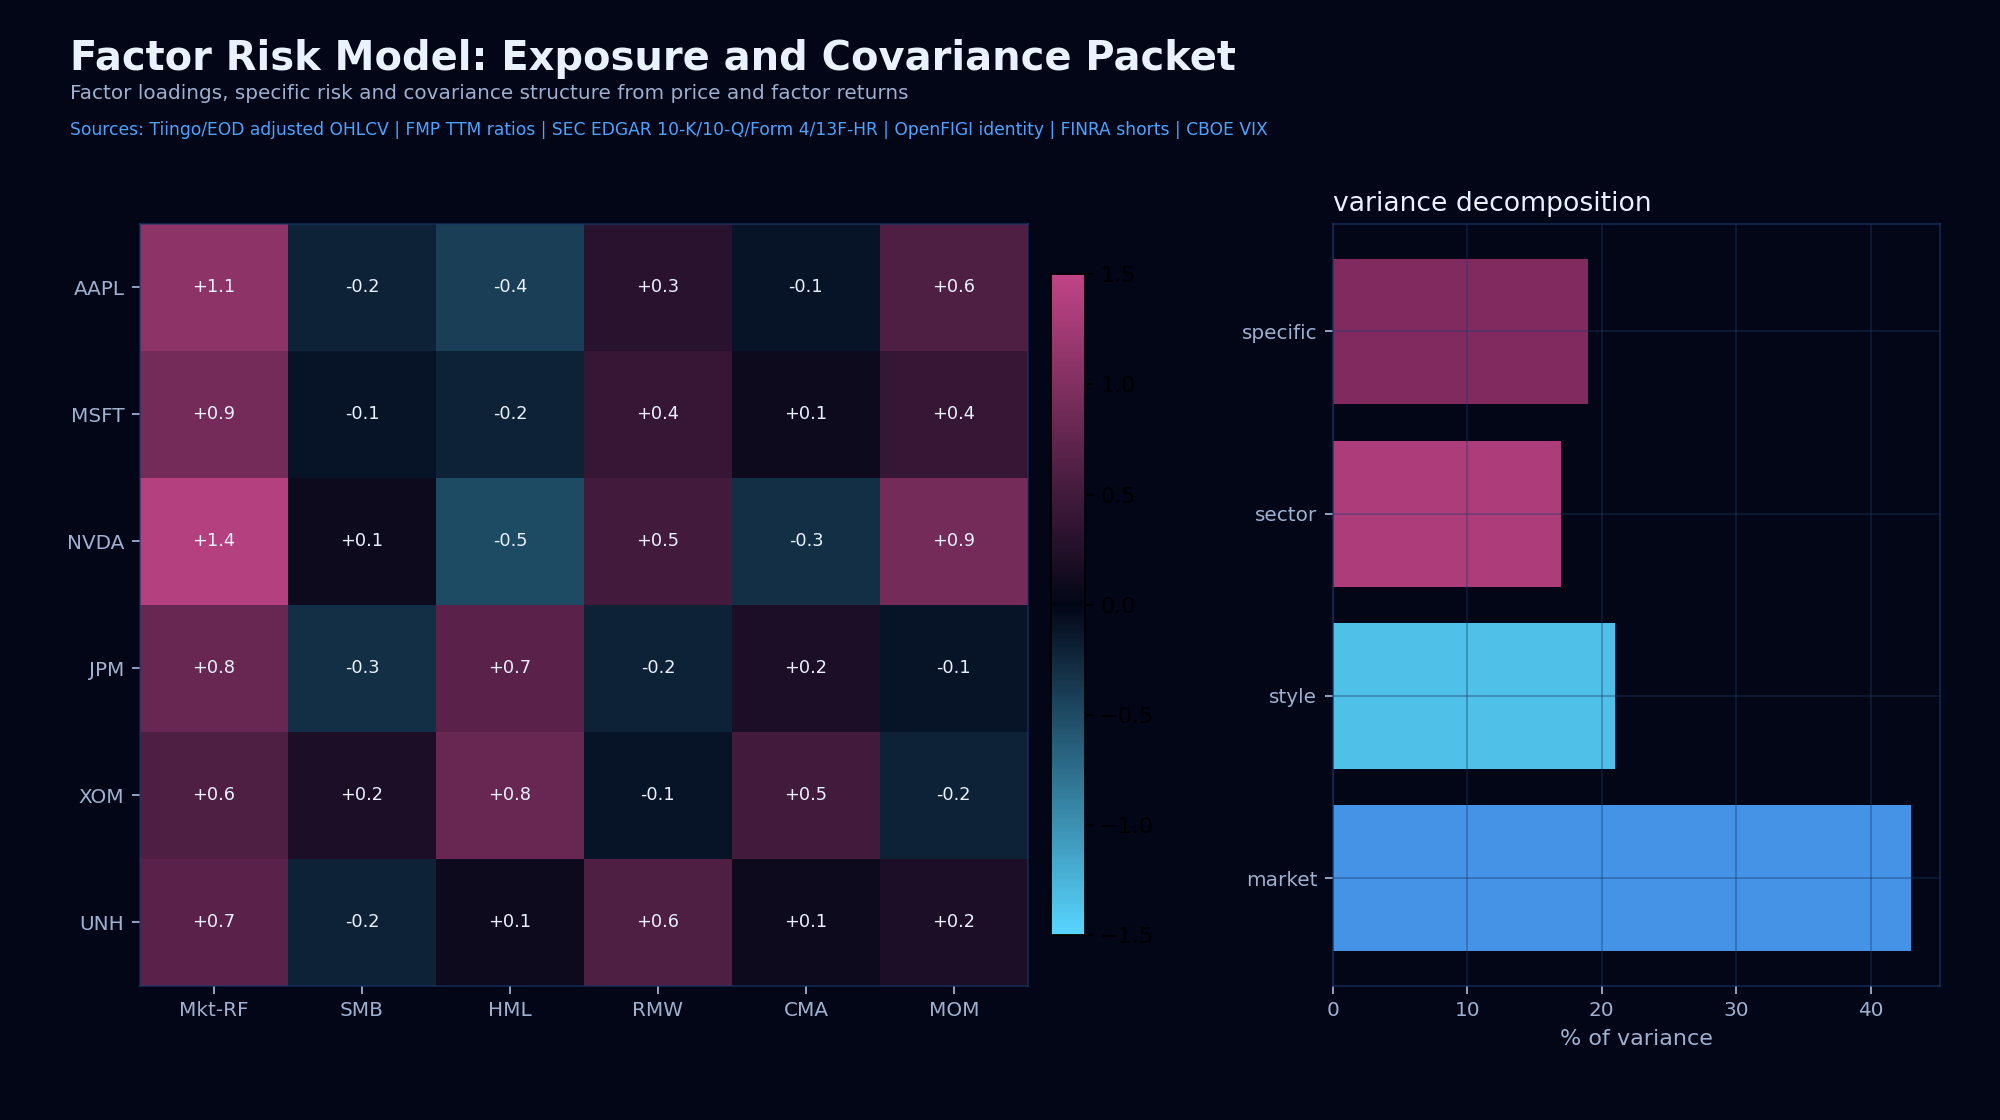
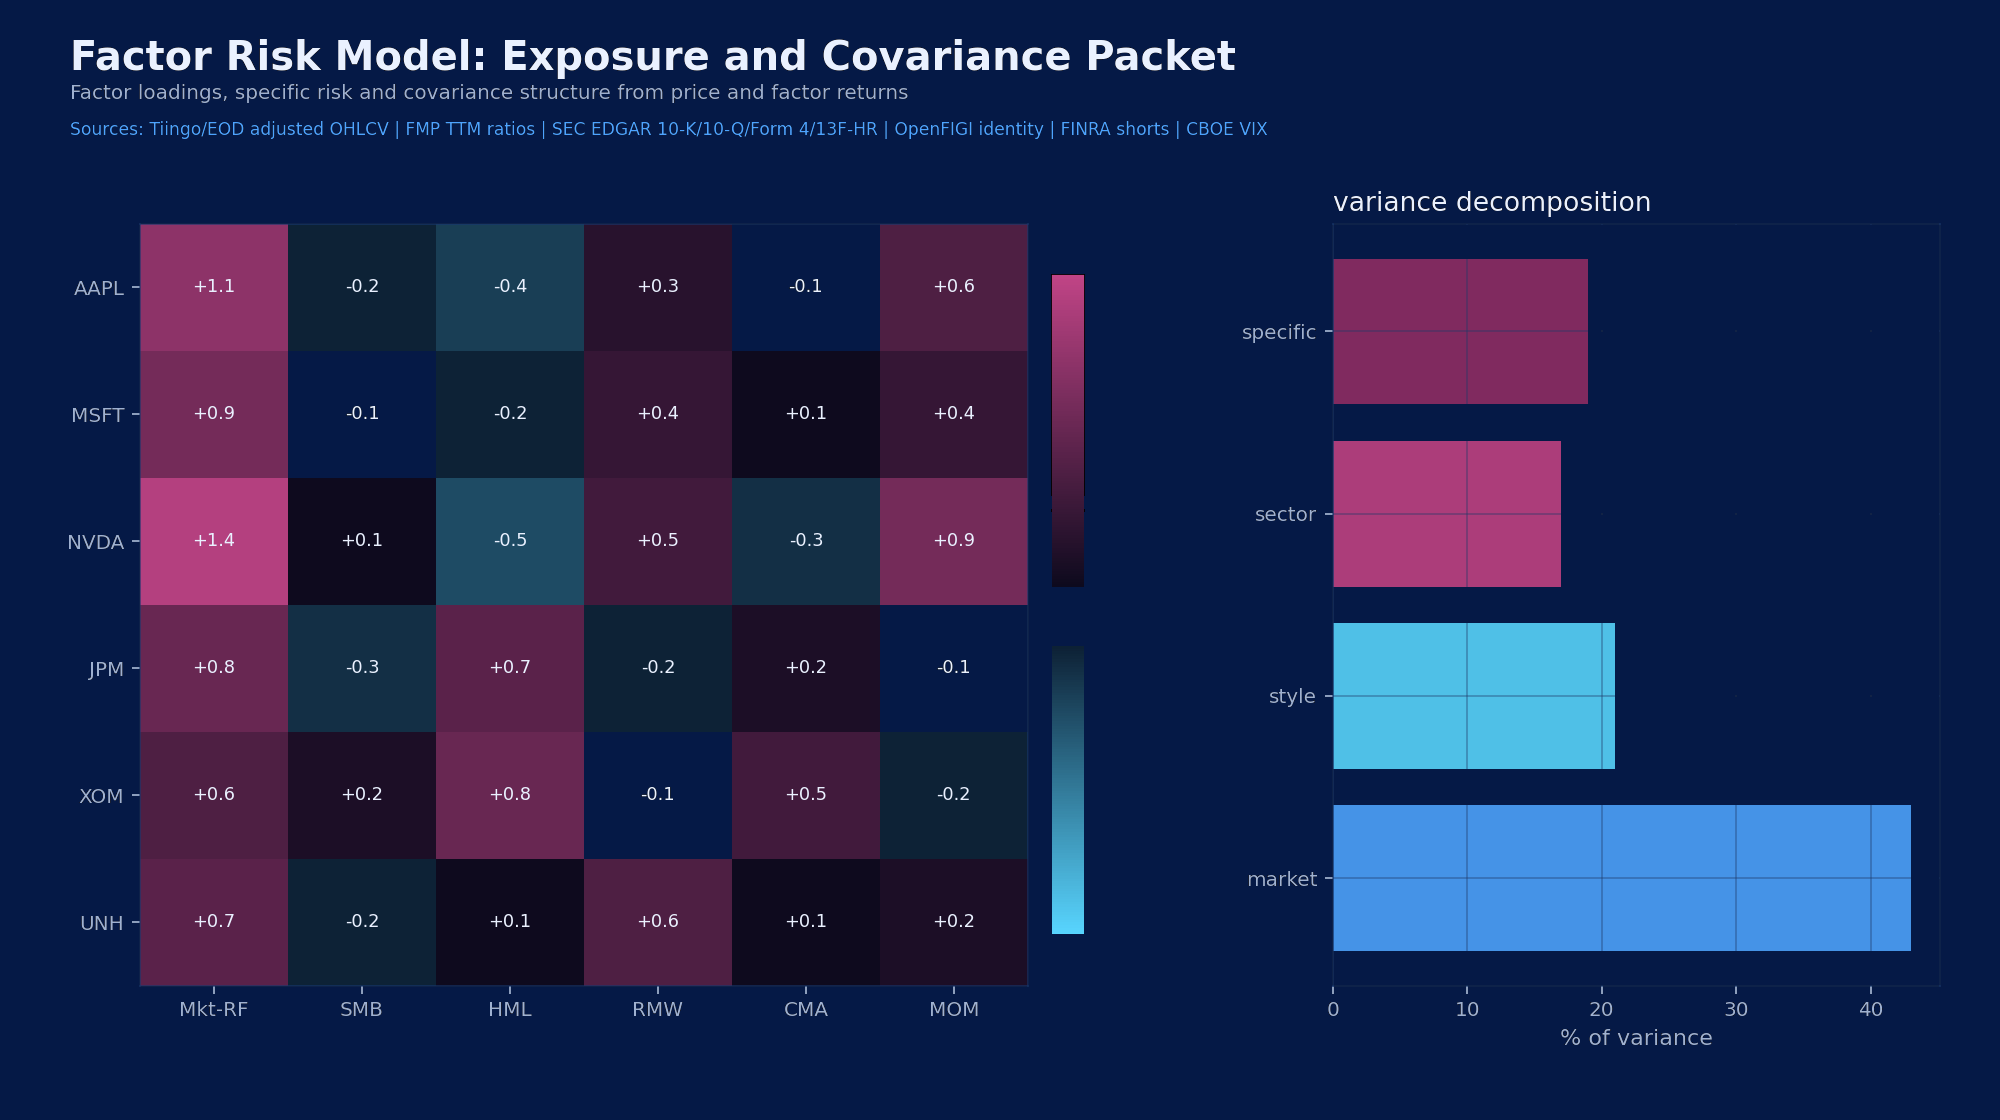
Recolor landing API plots to navy code background

diff --git a/scripts/recolor_landing_api_plots.py b/scripts/recolor_landing_api_plots.py
@@ -1,0 +1,63 @@
+from __future__ import annotations
+
+from pathlib import Path
+
+import numpy as np
+from PIL import Image
+
+
+ROOT = Path(__file__).resolve().parents[1]
+TARGET_BG = np.array([5, 25, 70], dtype=np.uint8)
+
+PLOTS = [
+    ROOT / "_output" / "_v3" / "v3_01_cloud_arr_grouped_bars.png",
+    ROOT / "_output" / "_v3" / "v3_14_earnings_implied_realized_scatter.png",
+    ROOT / "_output" / "_v3" / "v3_16_macro_regime_cross_asset_matrix.png",
+    ROOT / "_output" / "_v3" / "v3_23_orange_factor_risk_river.png",
+    ROOT / "_output" / "_v3" / "v3_25_backtest_parameter_surface_3d.png",
+    ROOT / "_output" / "_v3" / "v3_26_technical_indicator_stack.png",
+    ROOT / "_output" / "_v3" / "v3_27_realized_volatility_cone.png",
+    ROOT / "_output" / "_v3" / "v3_30_pairs_spread_zscore.png",
+    ROOT / "_output" / "32_liquidity_capacity_impact_output_01.png",
+    ROOT / "_output" / "39_institutional_crowding_13f_flows_output_01.png",
+    ROOT / "_output" / "55_factor_timing_dynamic_exposures_output_01.png",
+    ROOT / "_output" / "63_monte_carlo_tail_risk_output_01.png",
+    ROOT / "_output" / "73_conditioned_earnings_pead_multi_source_output_01.png",
+    ROOT / "_output" / "02_market_01.png",
+    ROOT / "_output" / "_v3" / "v3_10_revision_breadth_zscore.png",
+    ROOT / "_output" / "_v3" / "v3_11_roic_wacc_spread_zscore.png",
+    ROOT / "_output" / "_v3" / "v3_31_option_greeks_gamma_surface_3d.png",
+]
+
+
+def recolor(path: Path) -> int:
+    image = Image.open(path).convert("RGBA")
+    pixels = np.array(image)
+    rgb = pixels[:, :, :3]
+    alpha = pixels[:, :, 3]
+
+    # Replace only very dark blue/black chart backgrounds and panel fills.
+    mask = (
+        (alpha > 0)
+        & (rgb[:, :, 0] <= 12)
+        & (rgb[:, :, 1] <= 32)
+        & (rgb[:, :, 2] <= 90)
+        & (rgb[:, :, 2] >= rgb[:, :, 0])
+    )
+    pixels[:, :, :3][mask] = TARGET_BG
+    Image.fromarray(pixels, "RGBA").save(path)
+    return int(mask.sum())
+
+
+def main() -> None:
+    missing = [str(path.relative_to(ROOT)) for path in PLOTS if not path.exists()]
+    if missing:
+        raise SystemExit("Missing plots:\n" + "\n".join(missing))
+
+    for path in PLOTS:
+        changed = recolor(path)
+        print(f"{path.relative_to(ROOT)}: recolored {changed:,} pixels")
+
+
+if __name__ == "__main__":
+    main()
